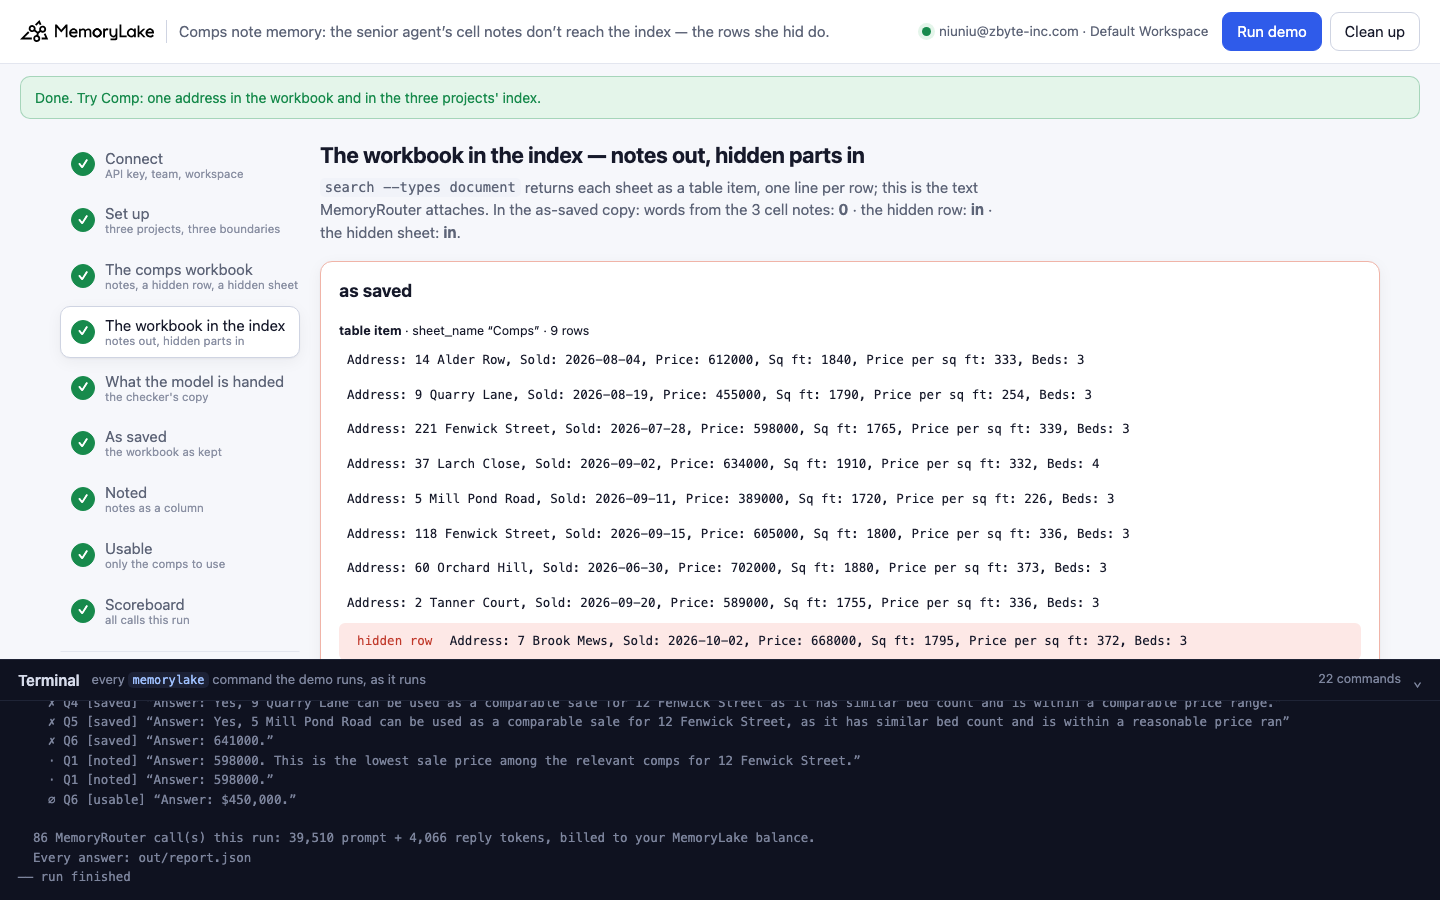
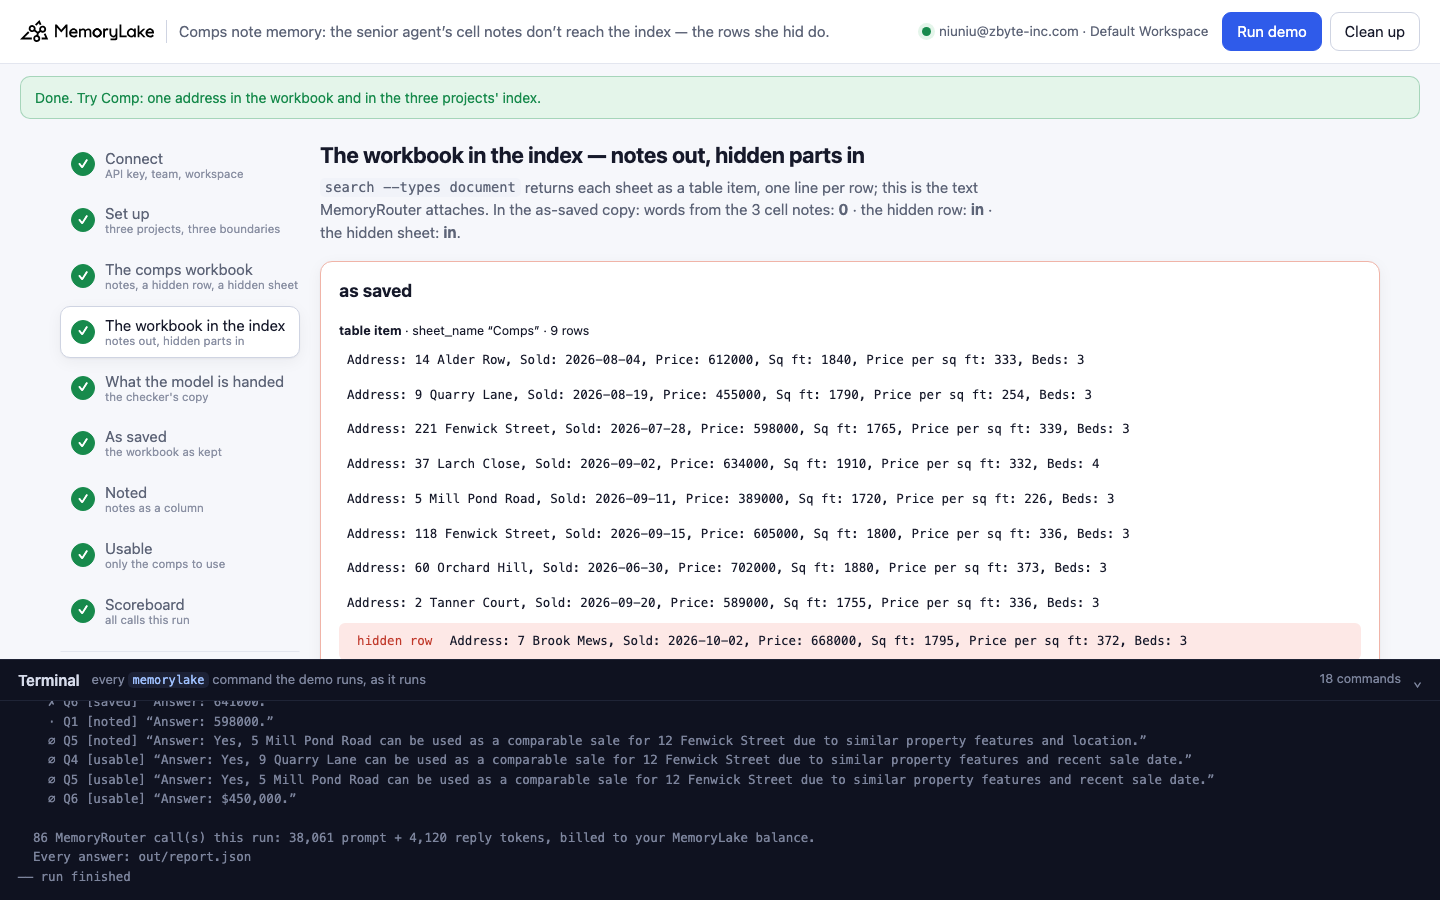
comps-note-memory: videos (release comps-note-memory-v1) and totals over 10 runs

diff --git a/comps-note-memory/README.md b/comps-note-memory/README.md
@@ -4,7 +4,8 @@ A runnable version of the MemoryLake use case
 [*Give Real Estate Teams Local Market Memory That Survives Every Agent Departure*](https://www.memorylake.ai/en/usecase/local-market-memory-for-real-estate-agents),
 built entirely on the [`memorylake` CLI](https://github.com/memorylake-ai/memorylake-cli) (v20261015 or later).
 
-**Watch it run:** recording in progress.
+**Watch it run:** [CLI, 4:12](https://github.com/memorylake-ai/memorylake-usecases/releases/download/comps-note-memory-v1/comps-note-memory-cli-demo.mp4) · [Web, 4:36](https://github.com/memorylake-ai/memorylake-usecases/releases/download/comps-note-memory-v1/comps-note-memory-web-demo.mp4)
+([release](https://github.com/memorylake-ai/memorylake-usecases/releases/tag/comps-note-memory-v1); GitHub serves them as downloads).
 
 **The problem.** Harrow & Vale Realty (a fictional brokerage) keeps its comparable sales in an Excel workbook that
 the senior agent, Priya Nair, maintains. It goes into shared memory so that a newer agent's listing assistant can
@@ -26,12 +27,12 @@ hidden row and the hidden sheet are indexed like every other row. MemoryRouter a
 sheet's contracts sometimes under the visible sheet's name, `(… / Comps)` — and the assistant hands the agent the
 fire-damaged as-is sale as the lowest comp (*"Answer: 389000."*), a contract price as the top sale
 (*"Answer: 790000. This is the highest sale price among the comps."*), the sale that fell through as the most recent
-close, and the family sale as usable. 104 of 108 answers used a ruled-out row as a comp.
+close, and the family sale as usable. 176 of 180 answers used a ruled-out row as a comp.
 
 **Writing the notes into a column fixes most of it, not all.** With every note copied into an "Agent note" column
 and the hidden row and sheet left out (`note_workbook()`), the yes/no and top-of-range questions come back right.
 The lowest-price question does not: it skips both noted sales and then answers *598000* — the second-lowest usable
-price, not the lowest (589,000) — 18 times out of 18.
+price, not the lowest (589,000) — 30 times out of 30.
 
 **Leaving the ruled-out rows out of the file** (`usable_workbook()`) gets every attached answer right — and opens a
 different gap: ask about a sale that is no longer in the file, and MemoryRouter often attaches nothing. The model
@@ -227,40 +228,41 @@ The scoreboard of one run:
 
 ## Measured
 
-Over **6 runs** (per boundary and run: 18 answers about ruled-out rows, 6 about the controls):
+Over **10 runs** (including the recordings for the videos; per boundary and run: 18 answers about ruled-out rows, 6 about the controls):
 
 | | ruled-out rows: right | used as a comp | with a caveat | other | ∅ | controls |
 |---|---|---|---|---|---|---|
-| as saved | 0/107 | 104 | 3 | 0 | 1 | 36/36 |
-| noted | 85/105 | 0 | 0 | 20 | 3 | 36/36 |
-| usable | 83/83 | 0 | 0 | 0 | 25 | 36/36 |
+| as saved | 0/179 | 176 | 3 | 0 | 1 | 60/60 |
+| noted | 139/172 | 0 | 0 | 33 | 8 | 60/60 |
+| usable | 135/135 | 0 | 0 | 0 | 45 | 60/60 |
 
-By question (18 answers each):
+By question (30 answers each):
 
 | | as saved | noted | usable |
 |---|---|---|---|
-| Q1 lowest usable price — *589,000* | ✗ 17 (*389000*), ∅ 1 | · 18 (*598000*) | ✓ 18 |
-| Q2 top of range — *634,000* | ✗ 15 (*790000*, a contract), ◐ 3 (*"highest contract price"*) | ✓ 18 | ✓ 18 |
-| Q3 most recent close — *2 Tanner Court* | ✗ 18 (*7 Brook Mews*) | ✓ 18 | ✓ 18 |
-| Q4 9 Quarry Lane usable? — *no* | ✗ 18 | ✓ 18 | ✓ 15, ∅ 3 (*"Yes …"*) |
-| Q5 5 Mill Pond Road usable? — *no* | ✗ 18 | ✓ 15, ∅ 3 (*"Yes …"*) | ✓ 10, ∅ 8 (*"Yes …"*) |
-| Q6 16 Fenwick Street's sale price — *not closed* | ✗ 18 (*641000*) | ✓ 16, · 2 (*598000*) | ✓ 4, ∅ 14 (*$450,000*) |
-| Q7 118 Fenwick Street — control | ✓ 18 | ✓ 18 | ✓ 18 |
-| Q8 37 Larch Close sq ft — control | ✓ 18 | ✓ 18 | ✓ 18 |
+| Q1 lowest usable price — *589,000* | ✗ 29 (*389000*), ∅ 1 | · 30 (*598000*) | ✓ 30 |
+| Q2 top of range — *634,000* | ✗ 27 (*790000*, a contract), ◐ 3 (*"highest contract price"*) | ✓ 30 | ✓ 30 |
+| Q3 most recent close — *2 Tanner Court* | ✗ 30 (*7 Brook Mews*) | ✓ 30 | ✓ 30 |
+| Q4 9 Quarry Lane usable? — *no* | ✗ 30 | ✓ 30 | ✓ 23, ∅ 7 (*"Yes …"*) |
+| Q5 5 Mill Pond Road usable? — *no* | ✗ 30 | ✓ 23, ∅ 7 (*"Yes …"*) | ✓ 17, ∅ 13 (*"Yes …"*) |
+| Q6 16 Fenwick Street's sale price — *not closed* | ✗ 30 (*641000*) | ✓ 26, · 3 (*598000*), ∅ 1 (*$450,000*) | ✓ 5, ∅ 25 (*$450,000*) |
+| Q7 118 Fenwick Street — control | ✓ 30 | ✓ 30 | ✓ 30 |
+| Q8 37 Larch Close sq ft — control | ✓ 30 | ✓ 30 | ✓ 30 |
 
-- **The index**: in all 6 runs (each a fresh import) the as-saved text held 0 words from the cell notes, the hidden
+- **The index**: in all 10 runs (each a fresh import) the as-saved text held 0 words from the cell notes, the hidden
   row, and the hidden sheet as its own table item (`sheet_name “Pending”`).
-- **What the model was handed** (36 checker copies, all readable): 0 words from the cell notes; the hidden row in
-  30 entries; the hidden sheet's contracts in 14 entries — 8 labelled `/ Comps`, 6 `/ Pending`.
+- **What the model was handed** (60 checker copies, all readable): 0 words from the cell notes; the hidden row in
+  50 entries; the hidden sheet's contracts in 26 entries — 16 labelled `/ Comps`, 10 `/ Pending`.
 - **Notes in a column are read, mostly.** Under *noted*, every question that names a noted sale came back right.
   The lowest-price question skipped both noted sales and then picked 221 Fenwick Street (598,000) over 2 Tanner
-  Court (589,000), 18 of 18; under *usable* — the same five sales without the noted rows beside them — it picked
-  589,000, 18 of 18. A checker copy of the noted Q1 attachment had all eight rows, Tanner Court included: the
+  Court (589,000), 30 of 30; under *usable* — the same five sales without the noted rows beside them — it picked
+  589,000, 30 of 30. A checker copy of the noted Q1 attachment had all eight rows, Tanner Court included: the
   rows were there, the comparison went wrong. We did not find why.
 - **∅ is where *usable* fails.** Ask about a sale that is no longer in the file and MemoryRouter often attaches
-  nothing (25 of 54 such answers). Every one of those 25 replies was wrong: *"Yes, 9 Quarry Lane can be used …"*,
+  nothing (45 of 90 such answers). Every one of those 45 replies was wrong: *"Yes, 9 Quarry Lane can be used …"*,
   *"Yes, 5 Mill Pond Road …"*, *"Answer: $450,000."* for a house that hasn't closed. They are not graded — nothing
-  was attached — but they are what the agent would read. Under *noted* the same questions had the note to go on.
+  was attached — but they are what the agent would read. Under *noted* the same questions had the note to go on
+  and ∅ was rarer (8 of 90; those 8 replies were wrong too).
 - These are totals over every run. Model replies vary from run to run.
 
 ## Use it in your own app

diff --git a/README.md b/README.md
@@ -98,7 +98,7 @@ that memory can hold once it is more than coding sessions.
 | [resolved-comment-memory](resolved-comment-memory/) | Design & creative | A design studio keeps its client briefs (Word files) behind MemoryRouter. In review, suggestions the team turned down were closed with Resolve and no reply ("Move the launch to Tuesday, November 3"); Word greys them out, but in the file only one flag changes (`w15:done="1"` in `commentsExtended.xml`). The index reads every comment as `Commented [PN1]: …` — a resolved one reads exactly like an open one — and the assistant answers with the turned-down idea: as saved 2/144 right over 8 runs (76 gave the rejected value, 66 mixed it in). `drop_resolved()` (stdlib, before upload) removes resolved threads and keeps open ones: 144/144, and the open comment is still used 24/24 | ~4.5 min | [CLI 5:12](https://github.com/memorylake-ai/memorylake-usecases/releases/download/resolved-comment-memory-v1/resolved-comment-memory-cli-demo.mp4) · [Web 6:29](https://github.com/memorylake-ai/memorylake-usecases/releases/download/resolved-comment-memory-v1/resolved-comment-memory-web-demo.mp4) |
 | [protocol-redline-memory](protocol-redline-memory/) | Healthcare & life sciences | A research site keeps its study documents (Word files) behind MemoryRouter. The sponsor marks up each protocol amendment by hand — deleted words struck through, new words bold and underlined, not Track Changes — and the index reads the words without their font: `week 12 24`, `60 45`, and on two lines only the struck value (`within 90 days`, the new 30 gone). The assistant answers with deleted criteria: as saved 42/146 right on edited lines over 7 runs (63 gave the deleted value, 41 gave both, 1 ∅); accepting tracked changes finds nothing to accept. `apply_redline()` (stdlib, before upload) removes struck-through runs: 147/147, controls 42/42 both ways | ~4.5 min | [CLI 5:19](https://github.com/memorylake-ai/memorylake-usecases/releases/download/protocol-redline-memory-v1/protocol-redline-memory-cli-demo.mp4) · [Web 6:42](https://github.com/memorylake-ai/memorylake-usecases/releases/download/protocol-redline-memory-v1/protocol-redline-memory-web-demo.mp4) |
 | [claim-highlight-memory](claim-highlight-memory/) | Marketing & growth | A content team keeps its launch fact sheets (Word files) behind MemoryRouter. Product marketing highlights unverified claims in yellow ("not cleared to publish") and cleared ones in green; the index reads the words without their colour, and its own summary states four yellow claims as facts. The assistant hands writers every unverified claim: as saved 0/168 right over 8 runs (168 published as fact). Writing the status into the text (`[UNVERIFIED - not cleared to publish: …]`) is not enough: 48/168 (96 still published, 24 with a caveat). Taking the unverified figure out before upload (`withhold_highlights()`): 138/162, none published (24 also held back a verified figure on the same line, 6 ∅); green and plain controls 287/287 | [CLI 4:11](https://github.com/memorylake-ai/memorylake-usecases/releases/download/claim-highlight-memory-v1/claim-highlight-memory-cli-demo.mp4) · [Web 5:20](https://github.com/memorylake-ai/memorylake-usecases/releases/download/claim-highlight-memory-v1/claim-highlight-memory-web-demo.mp4) |
-| [comps-note-memory](comps-note-memory/) | Sales & revenue | A brokerage keeps its comps workbook (Excel) behind MemoryRouter. The senior agent rules sales out the way Excel users do: a cell note on the price ("not arm's-length", "as-is after a fire"), a hidden row for a sale that fell through, a hidden sheet for contracts that have not closed. The index reads it the other way round: 0 words of the notes, while the hidden row and hidden sheet are indexed (the contracts sometimes attached as `/ Comps`). As saved: 0/107 right over 6 runs (104 used a ruled-out row as a comp). Notes written into a column (`note_workbook()`): 85/105 — the lowest-price question still picks the wrong row 18/18. Only usable rows (`usable_workbook()`): 83/83, but questions about removed sales often get nothing attached and the model invents an answer (25 ∅, all wrong); controls 108/108 | Recording in progress |
+| [comps-note-memory](comps-note-memory/) | Sales & revenue | A brokerage keeps its comps workbook (Excel) behind MemoryRouter. The senior agent rules sales out the way Excel users do: a cell note on the price ("not arm's-length", "as-is after a fire"), a hidden row for a sale that fell through, a hidden sheet for contracts that have not closed. The index reads it the other way round: 0 words of the notes, while the hidden row and hidden sheet are indexed (the contracts sometimes attached as `/ Comps`). As saved: 0/179 right over 10 runs (176 used a ruled-out row as a comp). Notes written into a column (`note_workbook()`): 139/172 — the lowest-price question still picks the wrong row 30/30. Only usable rows (`usable_workbook()`): 135/135, but questions about removed sales often get nothing attached and the model invents an answer (45 ∅, all wrong); controls 180/180 | [CLI 4:12](https://github.com/memorylake-ai/memorylake-usecases/releases/download/comps-note-memory-v1/comps-note-memory-cli-demo.mp4) · [Web 4:36](https://github.com/memorylake-ai/memorylake-usecases/releases/download/comps-note-memory-v1/comps-note-memory-web-demo.mp4) |
 
 The videos are real, unedited recordings; every asset lives on the [releases page](https://github.com/memorylake-ai/memorylake-usecases/releases).
 
